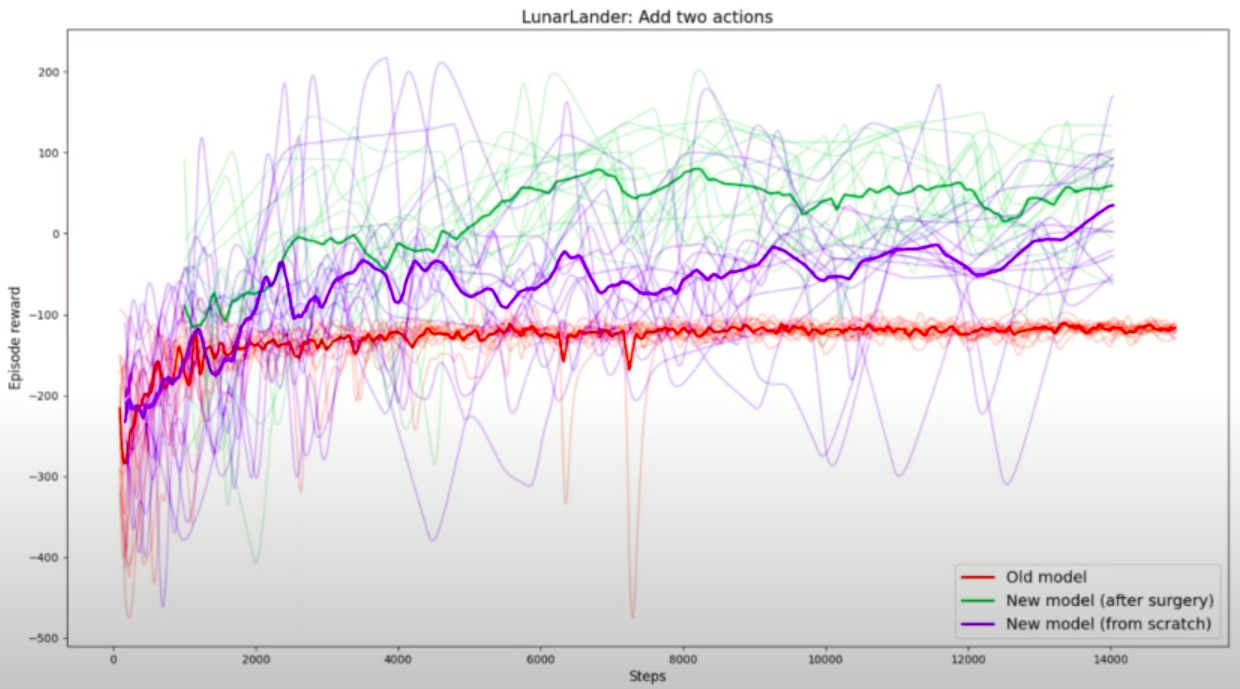
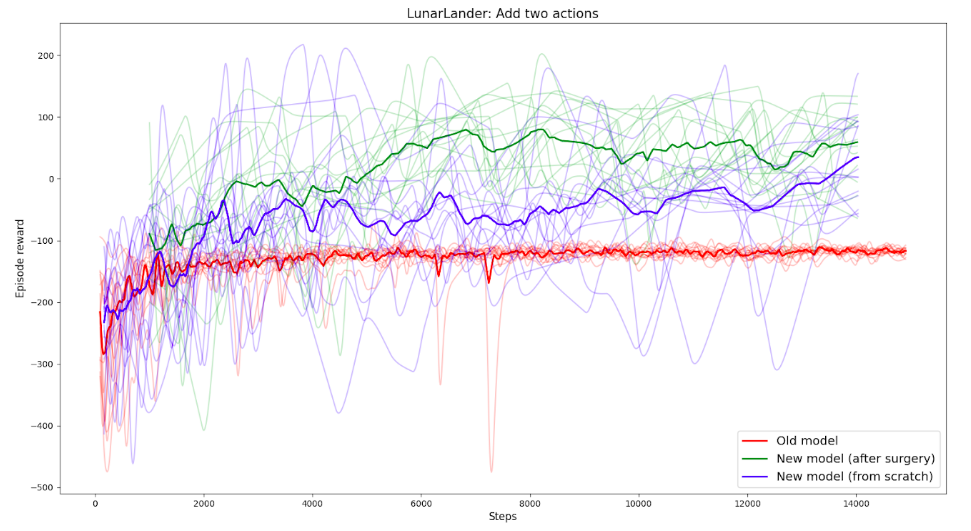
Finish NN Surgery experiment page (#31)
* Add correct lander plot

* Add future work and improve writing

* Fix #30 error in MNIST dataset

* Add NN Surgery to experiments page

diff --git a/_experiments/nn_surgery/nn-surgery.md b/_experiments/nn_surgery/nn-surgery.md
@@ -105,18 +105,20 @@ the following structure:
 6. Compare results of 1, 4 and 5.
 
 ### Increasing the outputs in MNIST classification
-First, we train a model to classify only MNIST images that contain numbers from 0 to 3, therefore the
+First, we train a model to classify only MNIST images that contain digits from 0 to 3, therefore the
 Convolutional Neural Network has 4 outputs. Then, we transplant the weights into a new network that
-has 10 outputs, and we train it on the full MNIST dataset.
+will classify digits from 4 to 9, and will therefore have 6 outputs. The figure below shows the 
+training results.
 
 {% include figure.html url="/_experiments/nn_surgery/mnist.png" 
 description="Red lines represent the old architecture, with 4 output classes. Blue lines
-represent the new architecture with 10 classes, trained from scratch, while green lines
+represent the new architecture with 6 classes, trained from scratch, while green lines
 represent the new architecture trained starting from the transplanted weights." %}
 
 Notice how the accuracy achieved by the model with transplanted weights (green) quickly rises and
 results in a $$\sim$$ 20% improvement with respect to the same model trained from scratch (blue)
-in the same number of training steps.
+in the same number of training steps. This is really interesting as the new network received weights
+from one that classified completely different digits.
 
 ### Deep Reinforcement Learning: Cartpole environment
 In the [Gym Cartpole environment](https://gym.openai.com/envs/CartPole-v0/) the goal is to
@@ -140,10 +142,9 @@ Notice how the Q network that received the weight transplant (green) dramaticall
 the same architecture if initialized from scratch (blue).
 
 **NOTE:** This experiment is important as it resembles a situation that happens often when
-working with custom environments, as one can realize that the agent is not learning because
-the observation space does not provide all the information needed. Then, modifying it -and 
-therefore modifying the network input space-, transplanting the weights and train again is the
-correct course of action. 
+working with custom environments. Often, one realizes that the agent is not learning because
+the observation space does not provide all the information needed. Then, modifying it,
+transplanting the weights and train again may be really beneficial.
 
 #### Adding hidden units and layers
 Another reason why an agent is not learning enough could be that the network is too small.
@@ -207,11 +208,25 @@ network with four outputs, corresponding to the full action space, and we train 
 Once again, the transplant technique proved superior to training from scratch.
 
 ## Takeaways
-- Our experiments suggest that weight transplant could **become the standard technique** for
-  Deep RL practitioners and researcher when exploring **state and action space definitions**,
-  or **neural network architectures**.
+- Our experiments suggest that weight transplant could be really useful or Deep RL practitioners
+  and researcher when exploring state and action space definitions, or neural network
+  architectures.
+
 - **Weight initialization** must be done carefully in Deep Reinforcement Learning. For example,
-  when rewards are negative, initializing an outpu unit with a zero weight will make it almost
+  when rewards are negative, initializing an output unit with a zero weight will make it almost
   always be chosen by the DQN algorithm.
-- Transfering weights even into different network architecture still gives an advantage! 
-- The Deep Reinforcement Learning community may need RL libraries to implement this!
+
+- The Deep Reinforcement Learning community may need RL libraries to implement this! 
+
+
+## Future work
+- Develop a library that performs weight transplant from one network to another in different
+  Deep Learning frameworks (Tensorflow, Pythorch) as well as for several Deep Reinforcement
+  Learning libraries (baselines, stable-baselines, Keras-RL, etc).
+
+- Do more research on the initialization of new weights. Is "close-to-identity"
+  initialization for new layers the better way? How do we initialize new output layers for
+  Deep Reinforcement Learning value networks without destroying the policy?
+
+- Perform more and more complex experiments. Is the transplant always beneficial? In what cases
+  does it fail?

diff --git a/experiments.md b/experiments.md
@@ -26,3 +26,13 @@ We tested the adaptability of our algorithm by training both a car and a drone.;
 "
 type="description" %}
 
+{% include card.html
+title="Neural Network Surgery in Deep Reinforcement Learning"
+img="/_experiments/nn_surgery/lunar_lander.gif"
+url="/experiments/nn_surgery"
+brief="In this work we experiment transplanting weights when modifying Neural Networks.
+Networks can be modified by increasing or reducing the observation and action space as
+well as the number of hidden layers and units. Results show that when modifying the
+network structure, weight transplant achieves faster and better result than training
+from scratch."
+type="description" %}
